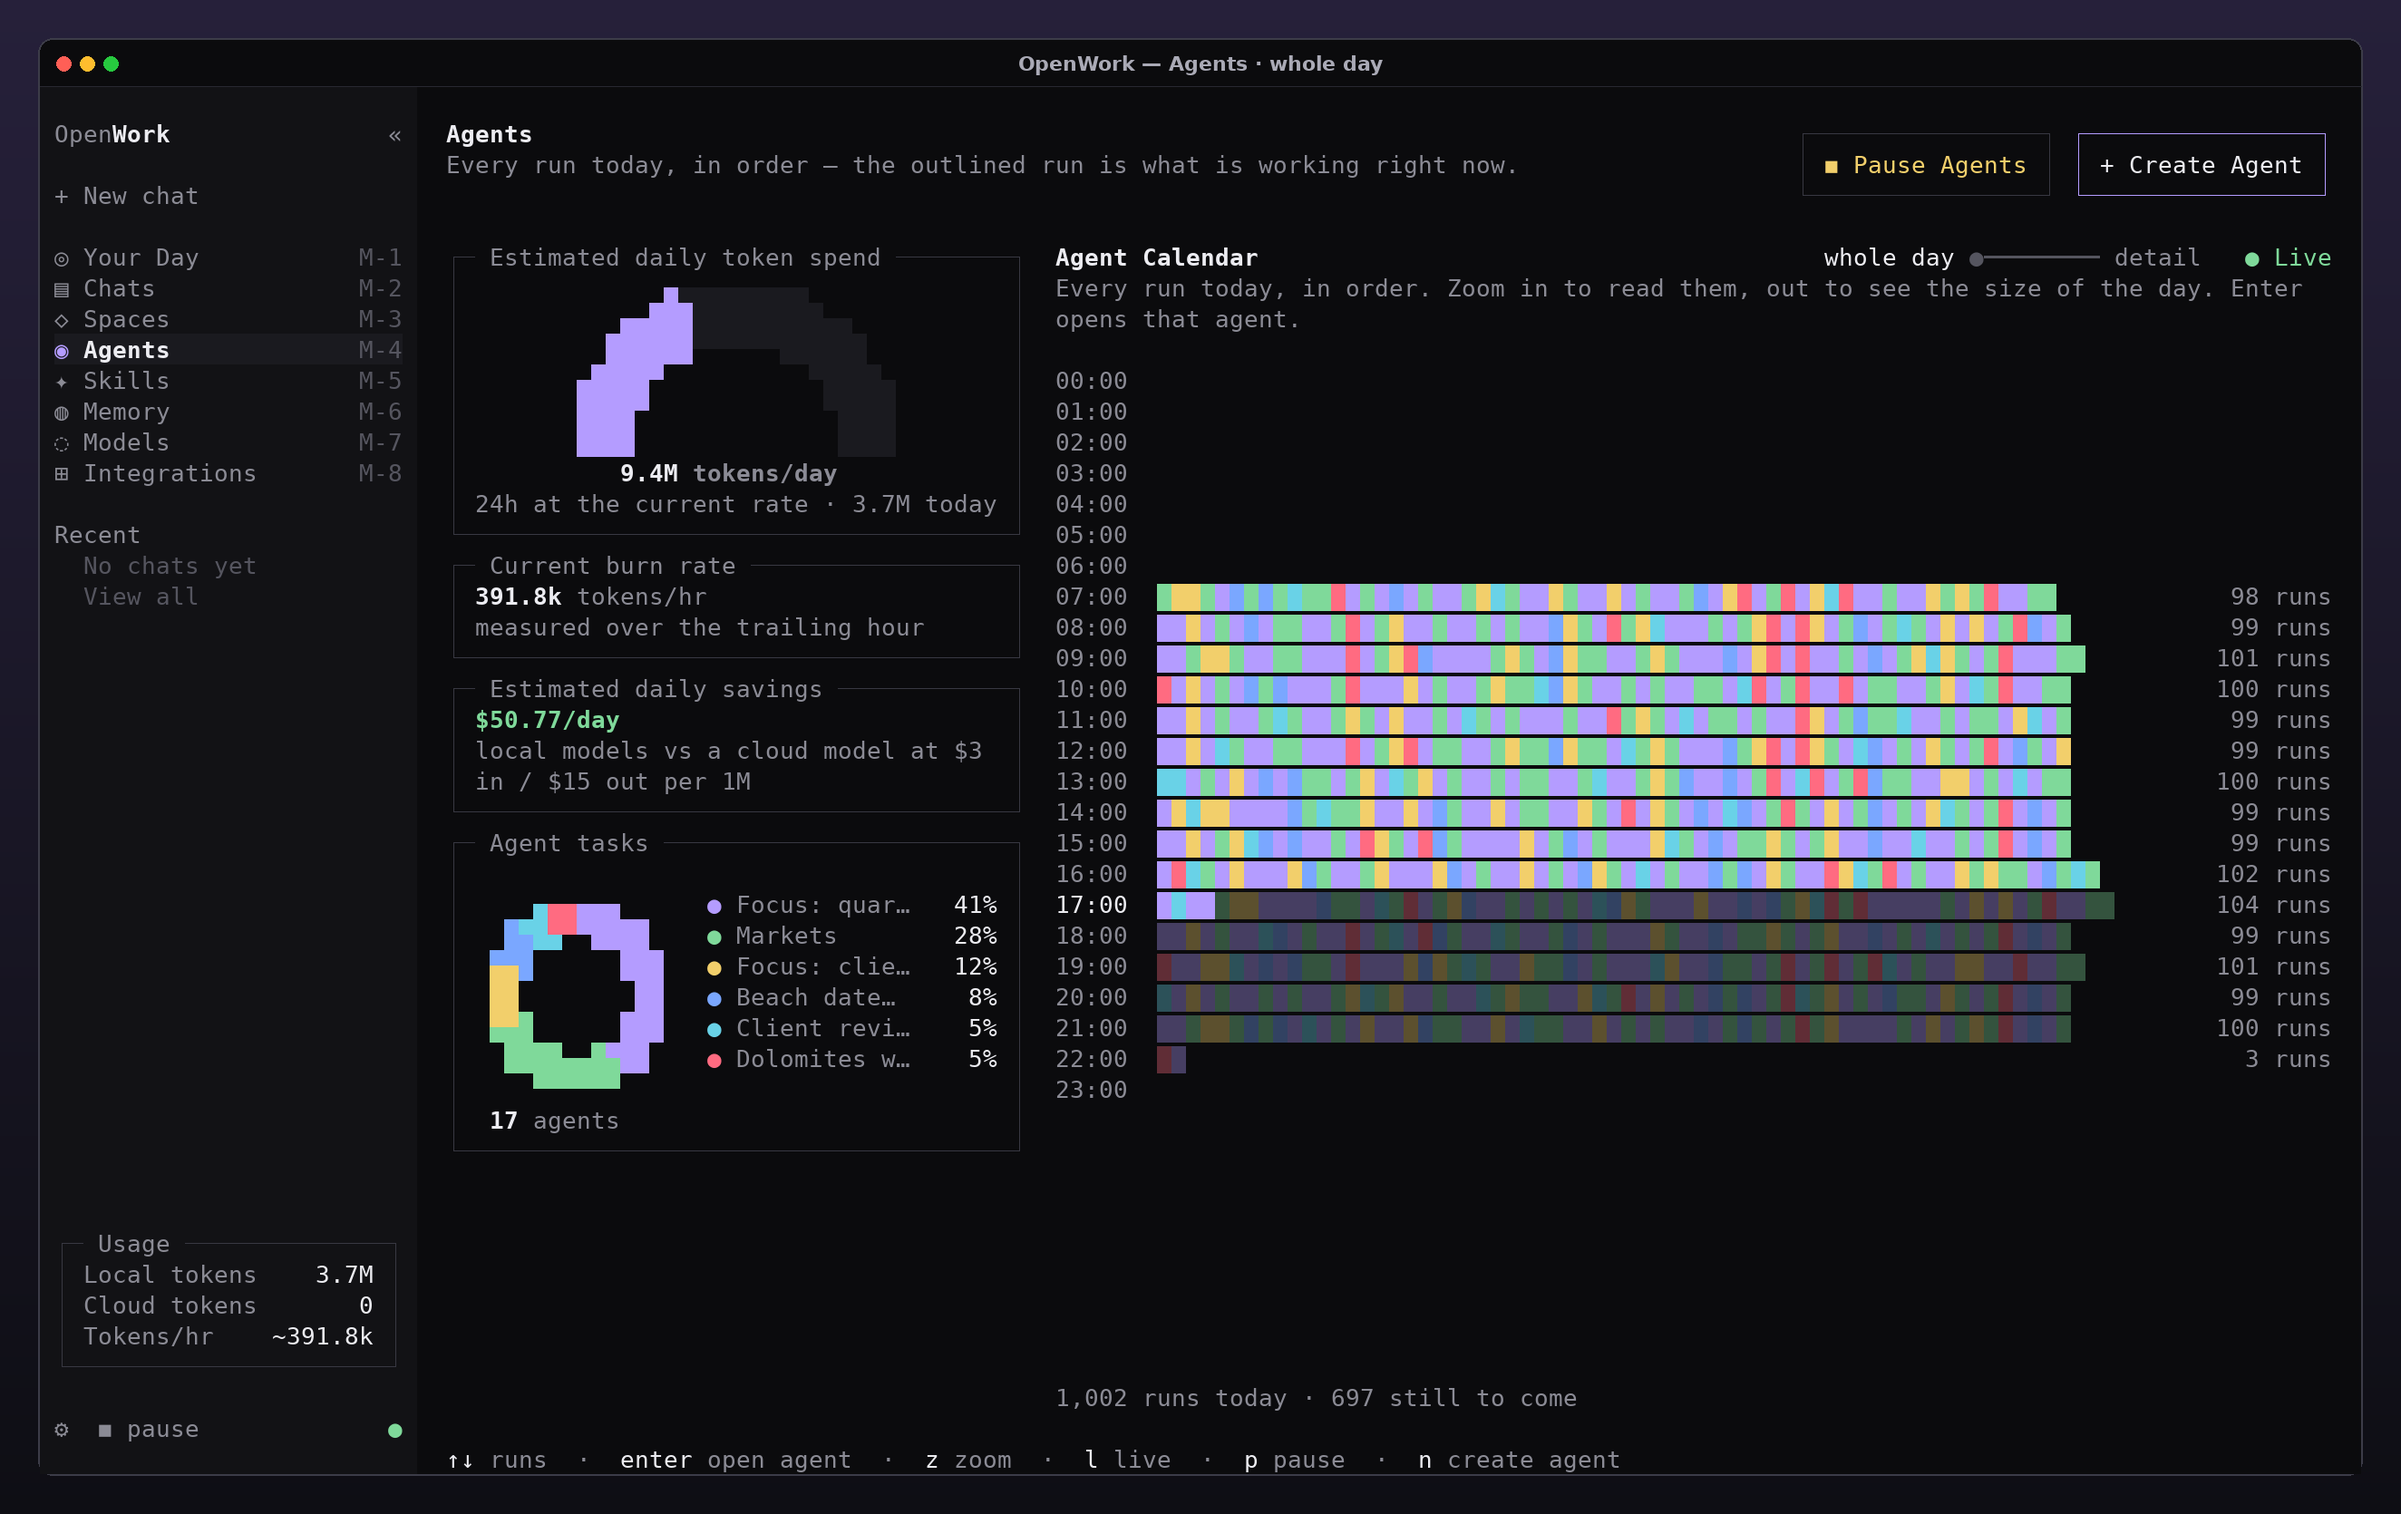
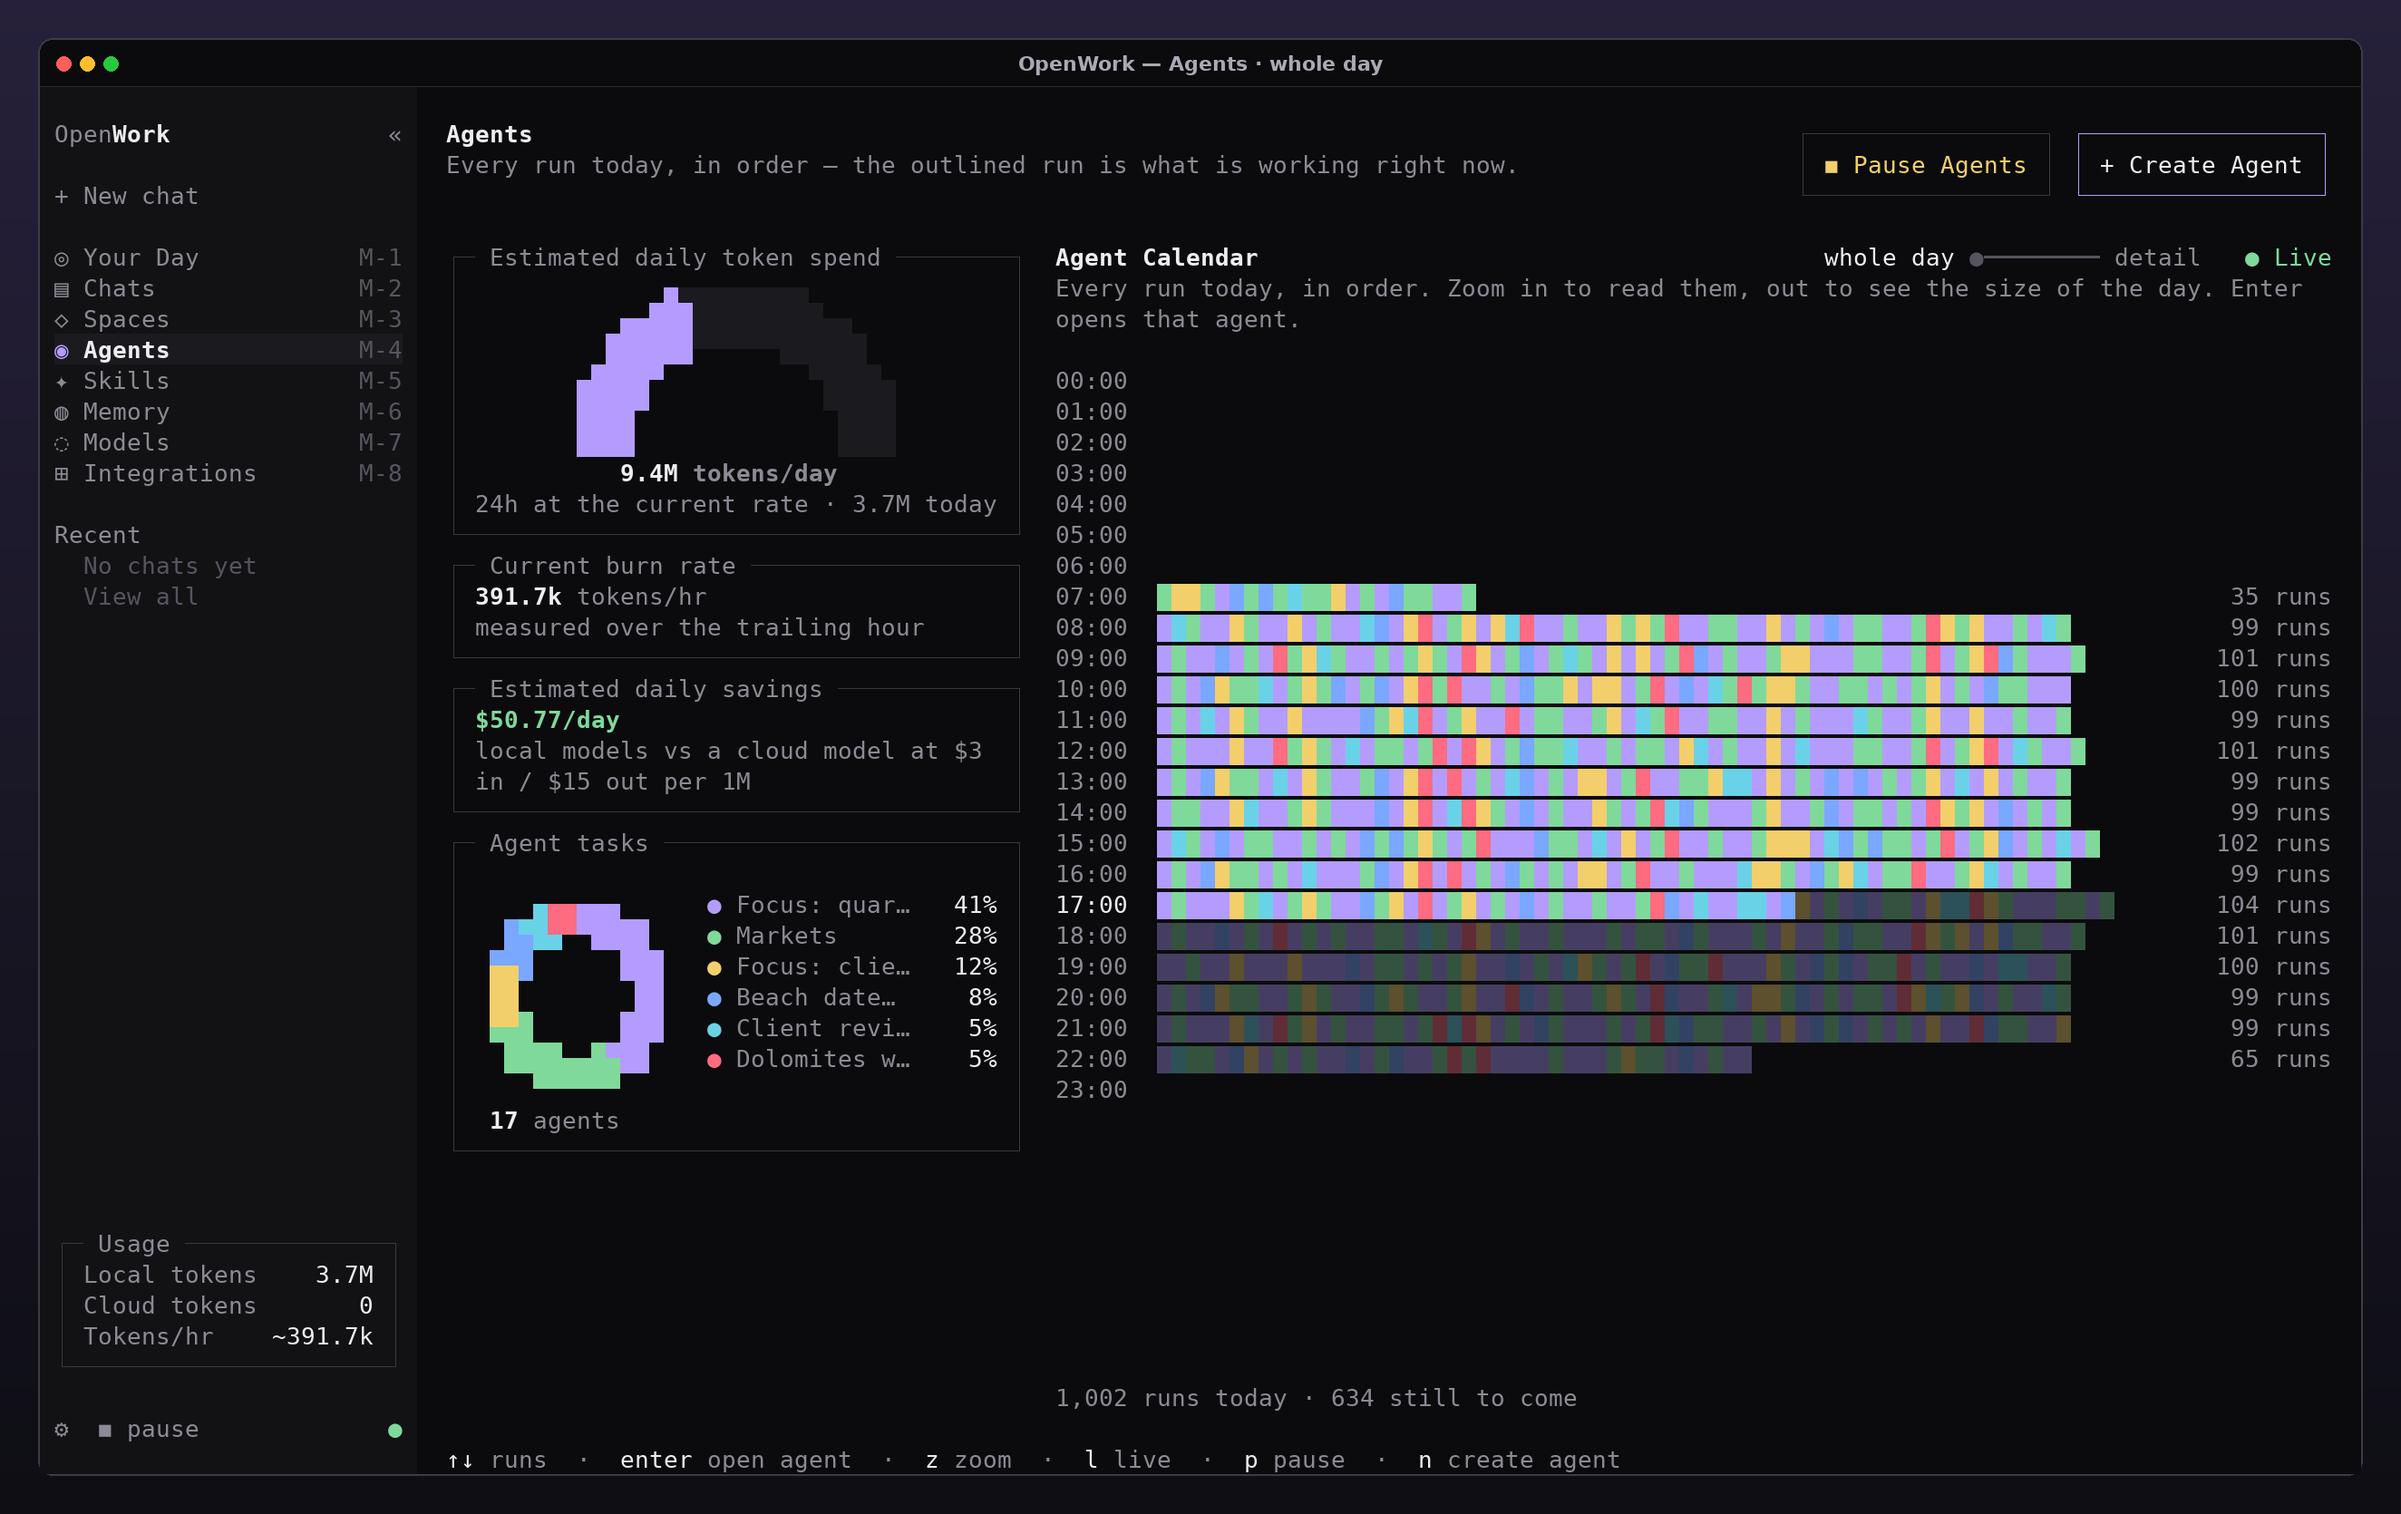
docs: describe OpenWork mouse support and refresh screenshots
Claude-Session: https://claude.ai/code/session_01SebZr9DM44SCASxGcmpDZc

Changed region(s): [[0.4645, 0.3737, 0.898, 0.7162]]

diff --git a/packages/opencode/script/openwork/screenshots.ts b/packages/opencode/script/openwork/screenshots.ts
@@ -6,7 +6,9 @@
  * workspace, lets the agents really run, walks through the pages with keystrokes and renders each capture with
  * ansi2png.py. Run from packages/opencode:
  *
- *   TZ=Pacific/Kiritimati bun script/openwork/screenshots.ts --out ../../docs/openwork/screenshots
+ *   TZ=Europe/London bun script/openwork/screenshots.ts --out ../../docs/openwork/screenshots
+ *
+ * Pick a TZ where it is late afternoon: the demo's run history starts at 06:00 local time.
  */
 import { $ } from "bun"
 import fs from "fs/promises"

diff --git a/docs/openwork/README.md b/docs/openwork/README.md
@@ -37,6 +37,10 @@ Inside the TUI:
 - `/deploy <what and when>` or `ctrl+x d` deploys an agent: description → folder → space → schedule → access.
   Pressing enter at every step deploys in seconds and runs it once right away.
 - `alt+1` … `alt+8` switch pages, `ctrl+x w` collapses the navigation, `ctrl+p` lists every command.
+- Everything also works with the mouse, as in opencode: click the navigation, buttons and the key hints at the
+  bottom of each page; in lists the first click selects a row and a click on the selected row opens it (like
+  enter); checkboxes toggle at once; the wheel scrolls lists and the agent calendar; the calendar's zoom and Live
+  controls are clickable. Dragging to select text still copies it instead of clicking.
 
 The scheduler runs inside the opencode server process (3 runs at a time, claims are atomic so several processes
 never run the same agent twice). Set `OPENCODE_DISABLE_WORK_SCHEDULER=1` to turn it off.
@@ -61,8 +65,11 @@ All screenshots are captures of the real TUI running against an offline model, r
 
 ```bash
 cd packages/opencode
-TZ=Pacific/Kiritimati bun script/openwork/screenshots.ts --out ../../docs/openwork/screenshots
+TZ=Europe/London bun script/openwork/screenshots.ts --out ../../docs/openwork/screenshots
 ```
+
+Pick a `TZ` where it is late afternoon when you run it: the demo's run history starts at 06:00 local time, so the
+day only looks full later on.
 
 |                                                            |                                                                          |
 | ---------------------------------------------------------- | ------------------------------------------------------------------------ |
